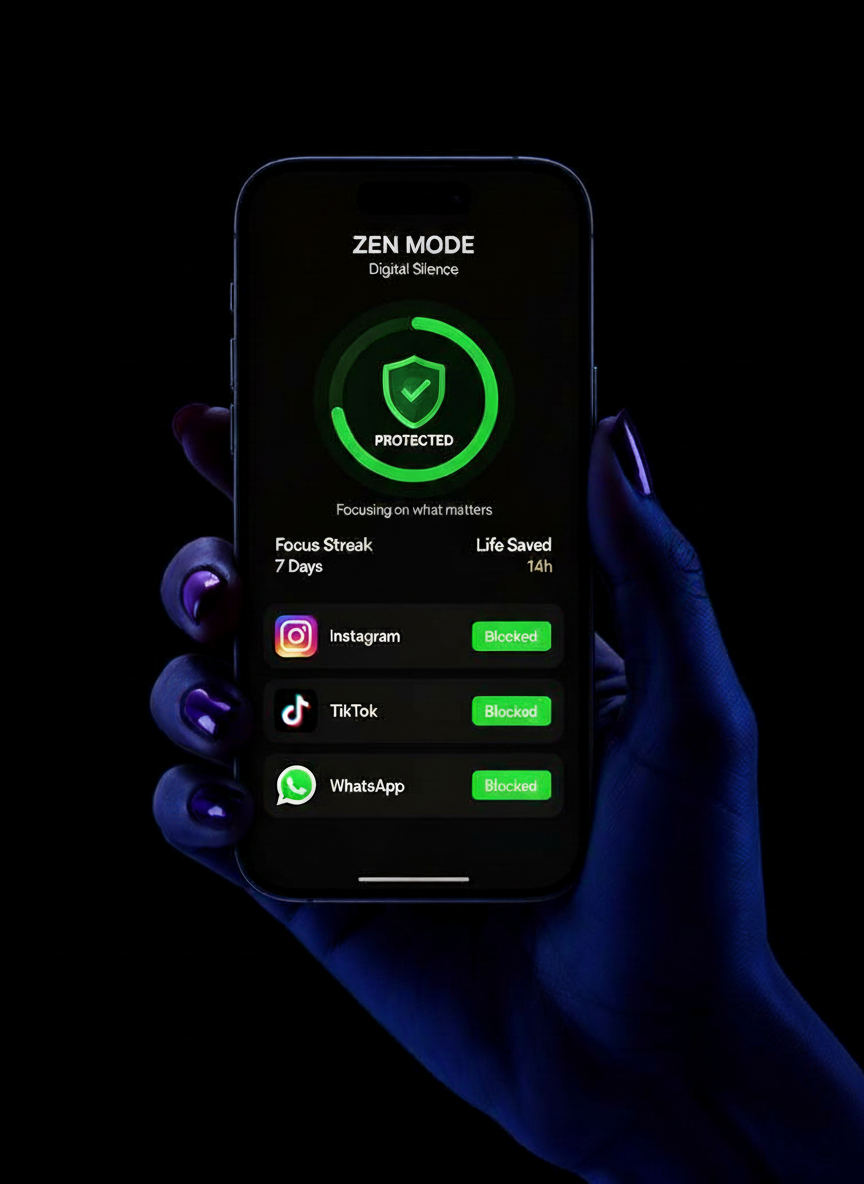
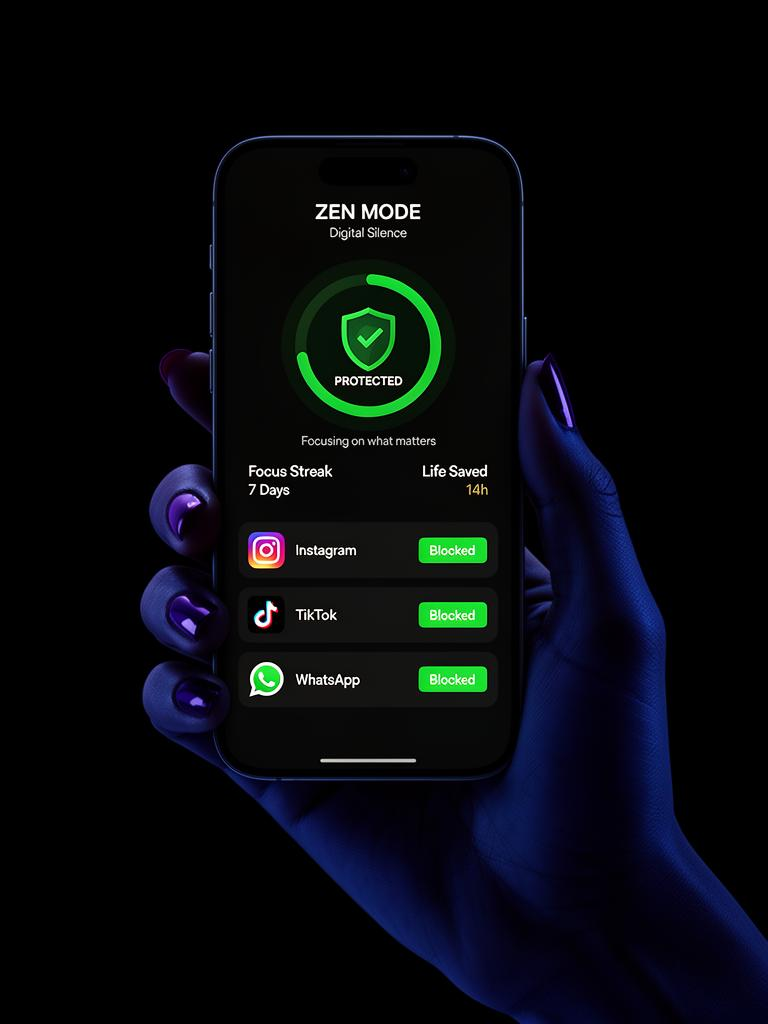
Reverted to commit 1372d18c15afbec308cd13c764d034508721e32c

diff --git a/src/pages/Index.tsx b/src/pages/Index.tsx
@@ -5,7 +5,6 @@ import { Input } from "@/components/ui/input";
 import { toast } from "sonner";
 import earthHorizon from "@/assets/earth-horizon.jpg";
 import handWithApp from "@/assets/hand-with-app-black.png";
-import appScreen from "@/assets/new-app-screen.png";
 
 const fadeUp = {
   hidden: { opacity: 0, y: 30 },
@@ -137,23 +136,6 @@ const Index = () => {
                 maskImage: "radial-gradient(ellipse 65% 78% at 50% 55%, black 52%, transparent 66%)",
                 WebkitMaskImage: "radial-gradient(ellipse 65% 78% at 50% 55%, black 52%, transparent 66%)",
                 filter: "brightness(1.15) contrast(1.1)",
-              }}
-            />
-            {/* User's actual app screenshot overlaid on phone screen */}
-            <img
-              src={appScreen}
-              alt="App screen"
-              className="absolute z-[11] pointer-events-none"
-              style={{
-                top: "4%",
-                left: "26%",
-                width: "48%",
-                height: "82%",
-                objectFit: "cover",
-                objectPosition: "top",
-                borderRadius: "2.2rem",
-                maskImage: "radial-gradient(ellipse 65% 78% at 50% 55%, black 52%, transparent 66%)",
-                WebkitMaskImage: "radial-gradient(ellipse 65% 78% at 50% 55%, black 52%, transparent 66%)",
               }}
             />
           </div>
